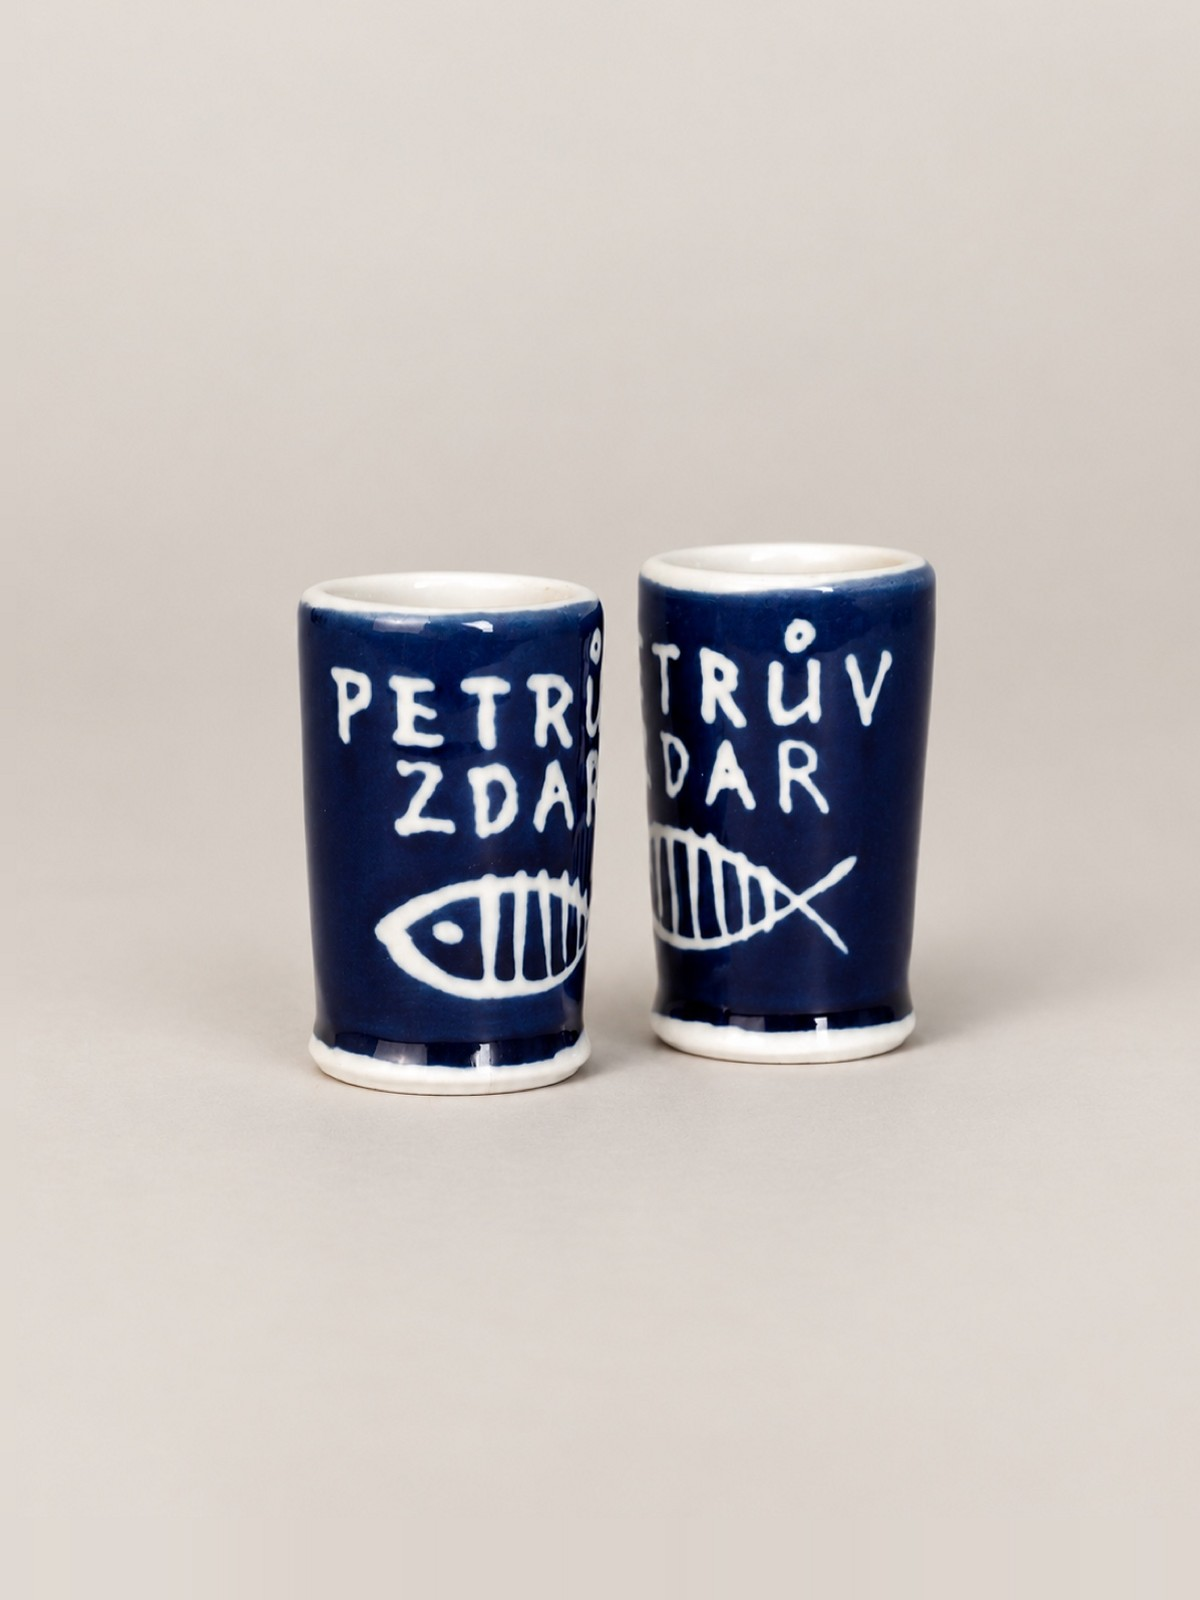
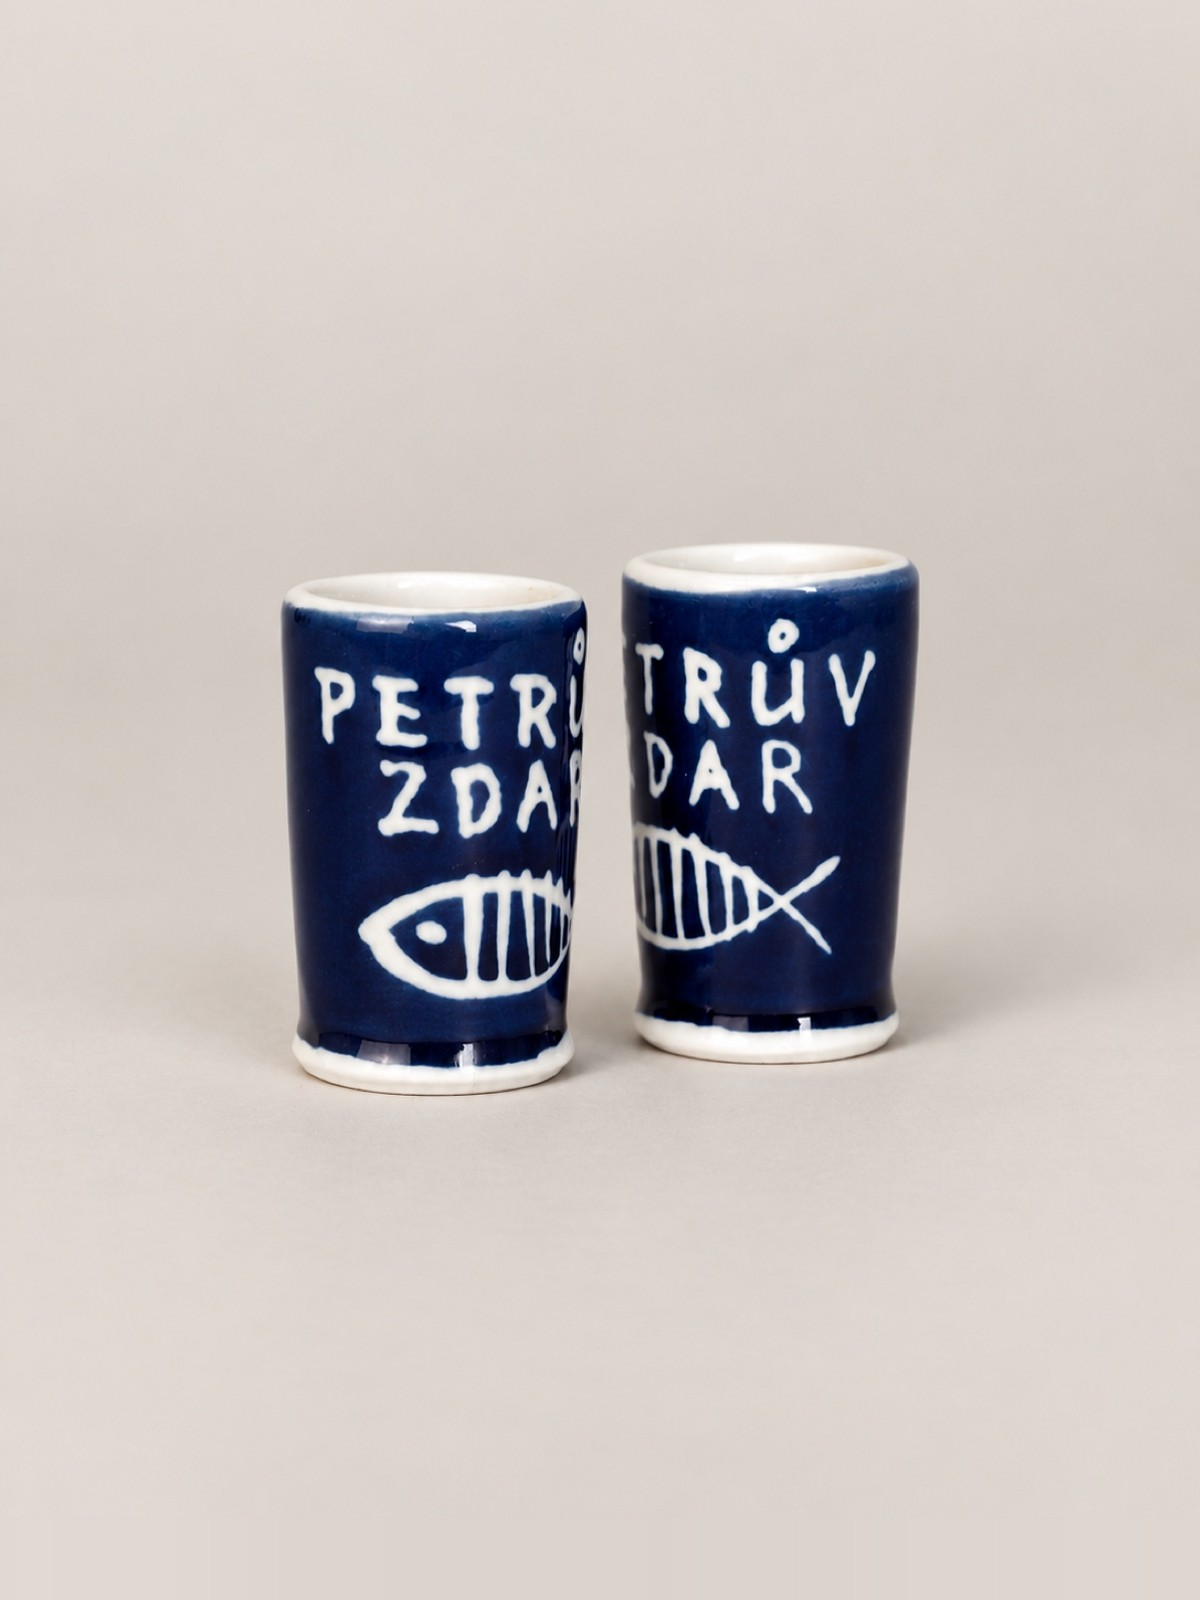
Panáky na středu
Trojice panáků se posunuly do strany: osu určoval spodek, a zadní
sklenička stojí výš. Panáky nemají ucho, takže je teď vycentruje celý
obrys (--axis box). Všech 16 je na středu a stejně vysokých.

Claude-Session: https://claude.ai/code/session_01WcryRPSdf7xtCXEp8sfC3E

Changed region(s): [[0.2158, 0.3438, 0.8017, 0.6875]]

diff --git a/scripts/align-photos/normalize.py b/scripts/align-photos/normalize.py
@@ -24,6 +24,8 @@ point of every piece, rattan handles included, sits M px below the top of
 the listing tile (which shows the photo cut to 260 × 302).
 --no-shape-cap drops the 10 % width limit of --by height, for groups where
 the width differs on purpose (single shot glasses next to sets of three).
+--axis box centres the whole outline instead of the foot (pieces without a
+handle, where the foot of a set of three is uneven).
 A piece is never scaled wider than the frame minus its side margins.
 
 Where the new frame reaches past the photo, the background is extended from
@@ -67,12 +69,13 @@ def side(b):
     return 'right' if rw > lw * 1.15 else 'left' if lw > rw * 1.15 else 'both'
 
 
-def plan_by_height(boxes, groups, shape_cap=True):
+def plan_by_height(boxes, groups, shape_cap=True, axis='body'):
     centres_y = [(b['top'] + b['bottom']) / 2 for b in boxes.values()]
     target_cy = st.median(centres_y)
     # Handle on the right (most): body left of centre, as photographed.
     # Handle on the left: the mirror of that. Cups on saucers: centred.
-    right_cx = round(st.median(b['bodyCx'] for b in boxes.values() if side(b) == 'right'))
+    rights = [b['bodyCx'] for b in boxes.values() if side(b) == 'right']
+    right_cx = round(st.median(rights)) if rights else W // 2
     target_cxs = {'right': right_cx, 'left': W - right_cx, 'both': W // 2}
     plan = {}
     for group, names in groups.items():
@@ -86,10 +89,11 @@ def plan_by_height(boxes, groups, shape_cap=True):
             plan[n] = {
                 'group': group,
                 'scale': min(scale[n], max_w / width[n], (W - 2 * MARGIN) / width[n]),
-                # the source point (sx, sy) lands on the target point (tx, ty)
-                'sx': b['bodyCx'],
+                # the source point (sx, sy) lands on the target point (tx, ty);
+                # --axis box centres the whole outline (pieces without a handle)
+                'sx': b['bodyCx'] if axis == 'body' else (b['left'] + b['right']) / 2,
                 'sy': (b['top'] + b['bottom']) / 2,
-                'tx': target_cxs[side(b)],
+                'tx': target_cxs[side(b)] if axis == 'body' else W / 2,
                 'ty': target_cy,
             }
     return plan
@@ -155,6 +159,7 @@ def main():
     ap.add_argument('--only', nargs='*', default=None)
     ap.add_argument('--fit-top', type=float, default=None)
     ap.add_argument('--no-shape-cap', action='store_true')
+    ap.add_argument('--axis', choices=['body', 'box'], default='body')
     ap.add_argument('--plan')
     a = ap.parse_args()
 
@@ -192,7 +197,7 @@ def main():
             del groups[g]
 
     if a.by == 'height':
-        plan = plan_by_height(boxes, groups, shape_cap=not a.no_shape_cap)
+        plan = plan_by_height(boxes, groups, shape_cap=not a.no_shape_cap, axis=a.axis)
     else:
         plan = plan_by_width(boxes, groups)
     fits = {}

diff --git a/CLAUDE.md b/CLAUDE.md
@@ -193,7 +193,7 @@ From the current O nás page. These are the only facts copy may use.
   - E-shop (`docs/design/eshop.pdf`): line name on the label line, the category menu, then five products a row on 260 × 302 tiles, 26 a page with one large illustration (2 × 2, `src/config/shop.ts`), the page numbers (no yellow bar, Sami, November 2026). Captions in Inter Medium, grey `#4c4c4c`: the type in capitals with the price beside it, the decor (motif, colour) in small letters on the second line, without "Porcelánový" (`src/lib/names.ts`, the data keeps the old titles). Captions are a size smaller than the body (`--step-caption`), the name close to the photo's left edge, the price close to its right edge.
   - Grid alignment: every product card is two grid rows (photo, caption) shared through `subgrid`, so photos in a row end on one line and captions start on one line; the illustration spans three rows of photo and is cropped to fit (`src/components/ProductGrid.astro`).
   - Footer: four columns on the e-shop menu's lines (address, contacts with the Instagram link `porcelan.kosovi`, legal links, rights with the language switch), 2 px smaller than the body (`--step-footer`).
-  - Product photos are aligned optically within one type (old category and subcategory), `scripts/align-photos/`, run it again on new photos. Mugs (`--by height`): the same height, top and bottom line, the body on one vertical axis. Bowls, plates, teapots, sugar bowls and jugs (`--by width`, since lids and rattan handles make the height unreliable): the same width, the foot on one line; teapots are then shrunk per type so the rattan handle stays inside the listing tile (`--fit-top`). Shot glasses (`--by height --no-shape-cap`): all the same height, sets of three included. Left as delivered: bábovky and types with fewer than three pieces.
+  - Product photos are aligned optically within one type (old category and subcategory), `scripts/align-photos/`, run it again on new photos. Mugs (`--by height`): the same height, top and bottom line, the body on one vertical axis. Bowls, plates, teapots, sugar bowls and jugs (`--by width`, since lids and rattan handles make the height unreliable): the same width, the foot on one line; teapots are then shrunk per type so the rattan handle stays inside the listing tile (`--fit-top`). Shot glasses (`--by height --no-shape-cap --axis box`): all the same height, sets of three included, centred on the whole outline. Left as delivered: bábovky and types with fewer than three pieces.
 - Subject: hand-thrown porcelain, cobalt on white, two makers. Photography carries the site.
 - Avoid: cream background with terracotta accent, rounded SaaS cards with soft shadows, fade-up animation on every section.
 - Product images large, zoomable, with a simple lightbox. **Never disable pinch zoom.** The old site did, which is especially bad for detailed painting.

diff --git a/scripts/align-photos/README.md b/scripts/align-photos/README.md
@@ -11,8 +11,9 @@ a stály na stejné linii.
   (průměr, rozpětí od hubičky k uchu), spodní okraj na jedné linii. Výška
   tu spolehlivá není, víčko a ratanové ucho ji mění.
 
-- Panáky (`--by height --no-shape-cap`): všechny stejně vysoké, i když
-  jsou na fotce tři vedle sebe.
+- Panáky (`--by height --no-shape-cap --axis box`): všechny stejně vysoké,
+  i když jsou na fotce tři vedle sebe, a na středu podle celého obrysu
+  (zadní sklenička trojice stojí výš, spodek proto osu neurčí).
 - Konvice navíc `--fit-top 90`: celý typ se zmenší tak, aby ratanové ucho
   končilo aspoň 90 px pod horním okrajem dlaždice v e-shopu (dlaždice
   260 × 302 ořízne z fotky 3 : 4 kus nahoře i dole).
@@ -38,7 +39,7 @@ python3 -m venv .venv && .venv/bin/pip install numpy scipy pillow
   --by width --only konvice- --min-group 2 --fit-top 90
 # panáky
 .venv/bin/python normalize.py <fotky> boxes.json ../../src/content/products <výstup> \
-  --by height --only panaky/ --no-shape-cap
+  --by height --only panaky/ --no-shape-cap --axis box
 ```
 
 `kontrola.jpg` ukazuje nalezené obrysy (červeně), osu podle spodku (zeleně)
